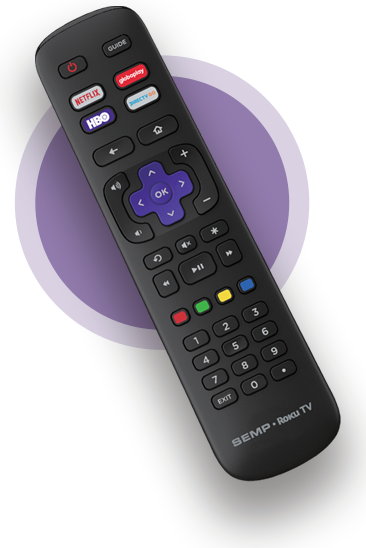
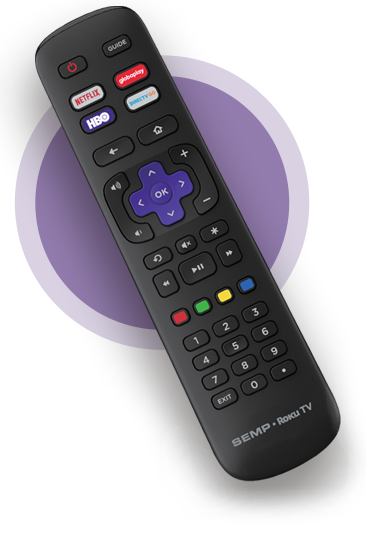
Alteração de imagem do controle

Changed region(s): [[0.541, 0.8686, 0.8716, 0.9927], [0.9016, 0.7135, 0.9317, 0.7755]]

diff --git a/lading.html b/lading.html
@@ -49,7 +49,7 @@
                         <img
                         id="console-image"
                         class="max-h-64 md:ml-32 md:absolute lg:ml-40"
-                        src="./images/controle-tv-R5500.png" 
+                        src="./images/controle-tv-RK8500.png" 
                         alt="controle da tv" 
                         title="controle da tv">
                     </div>
